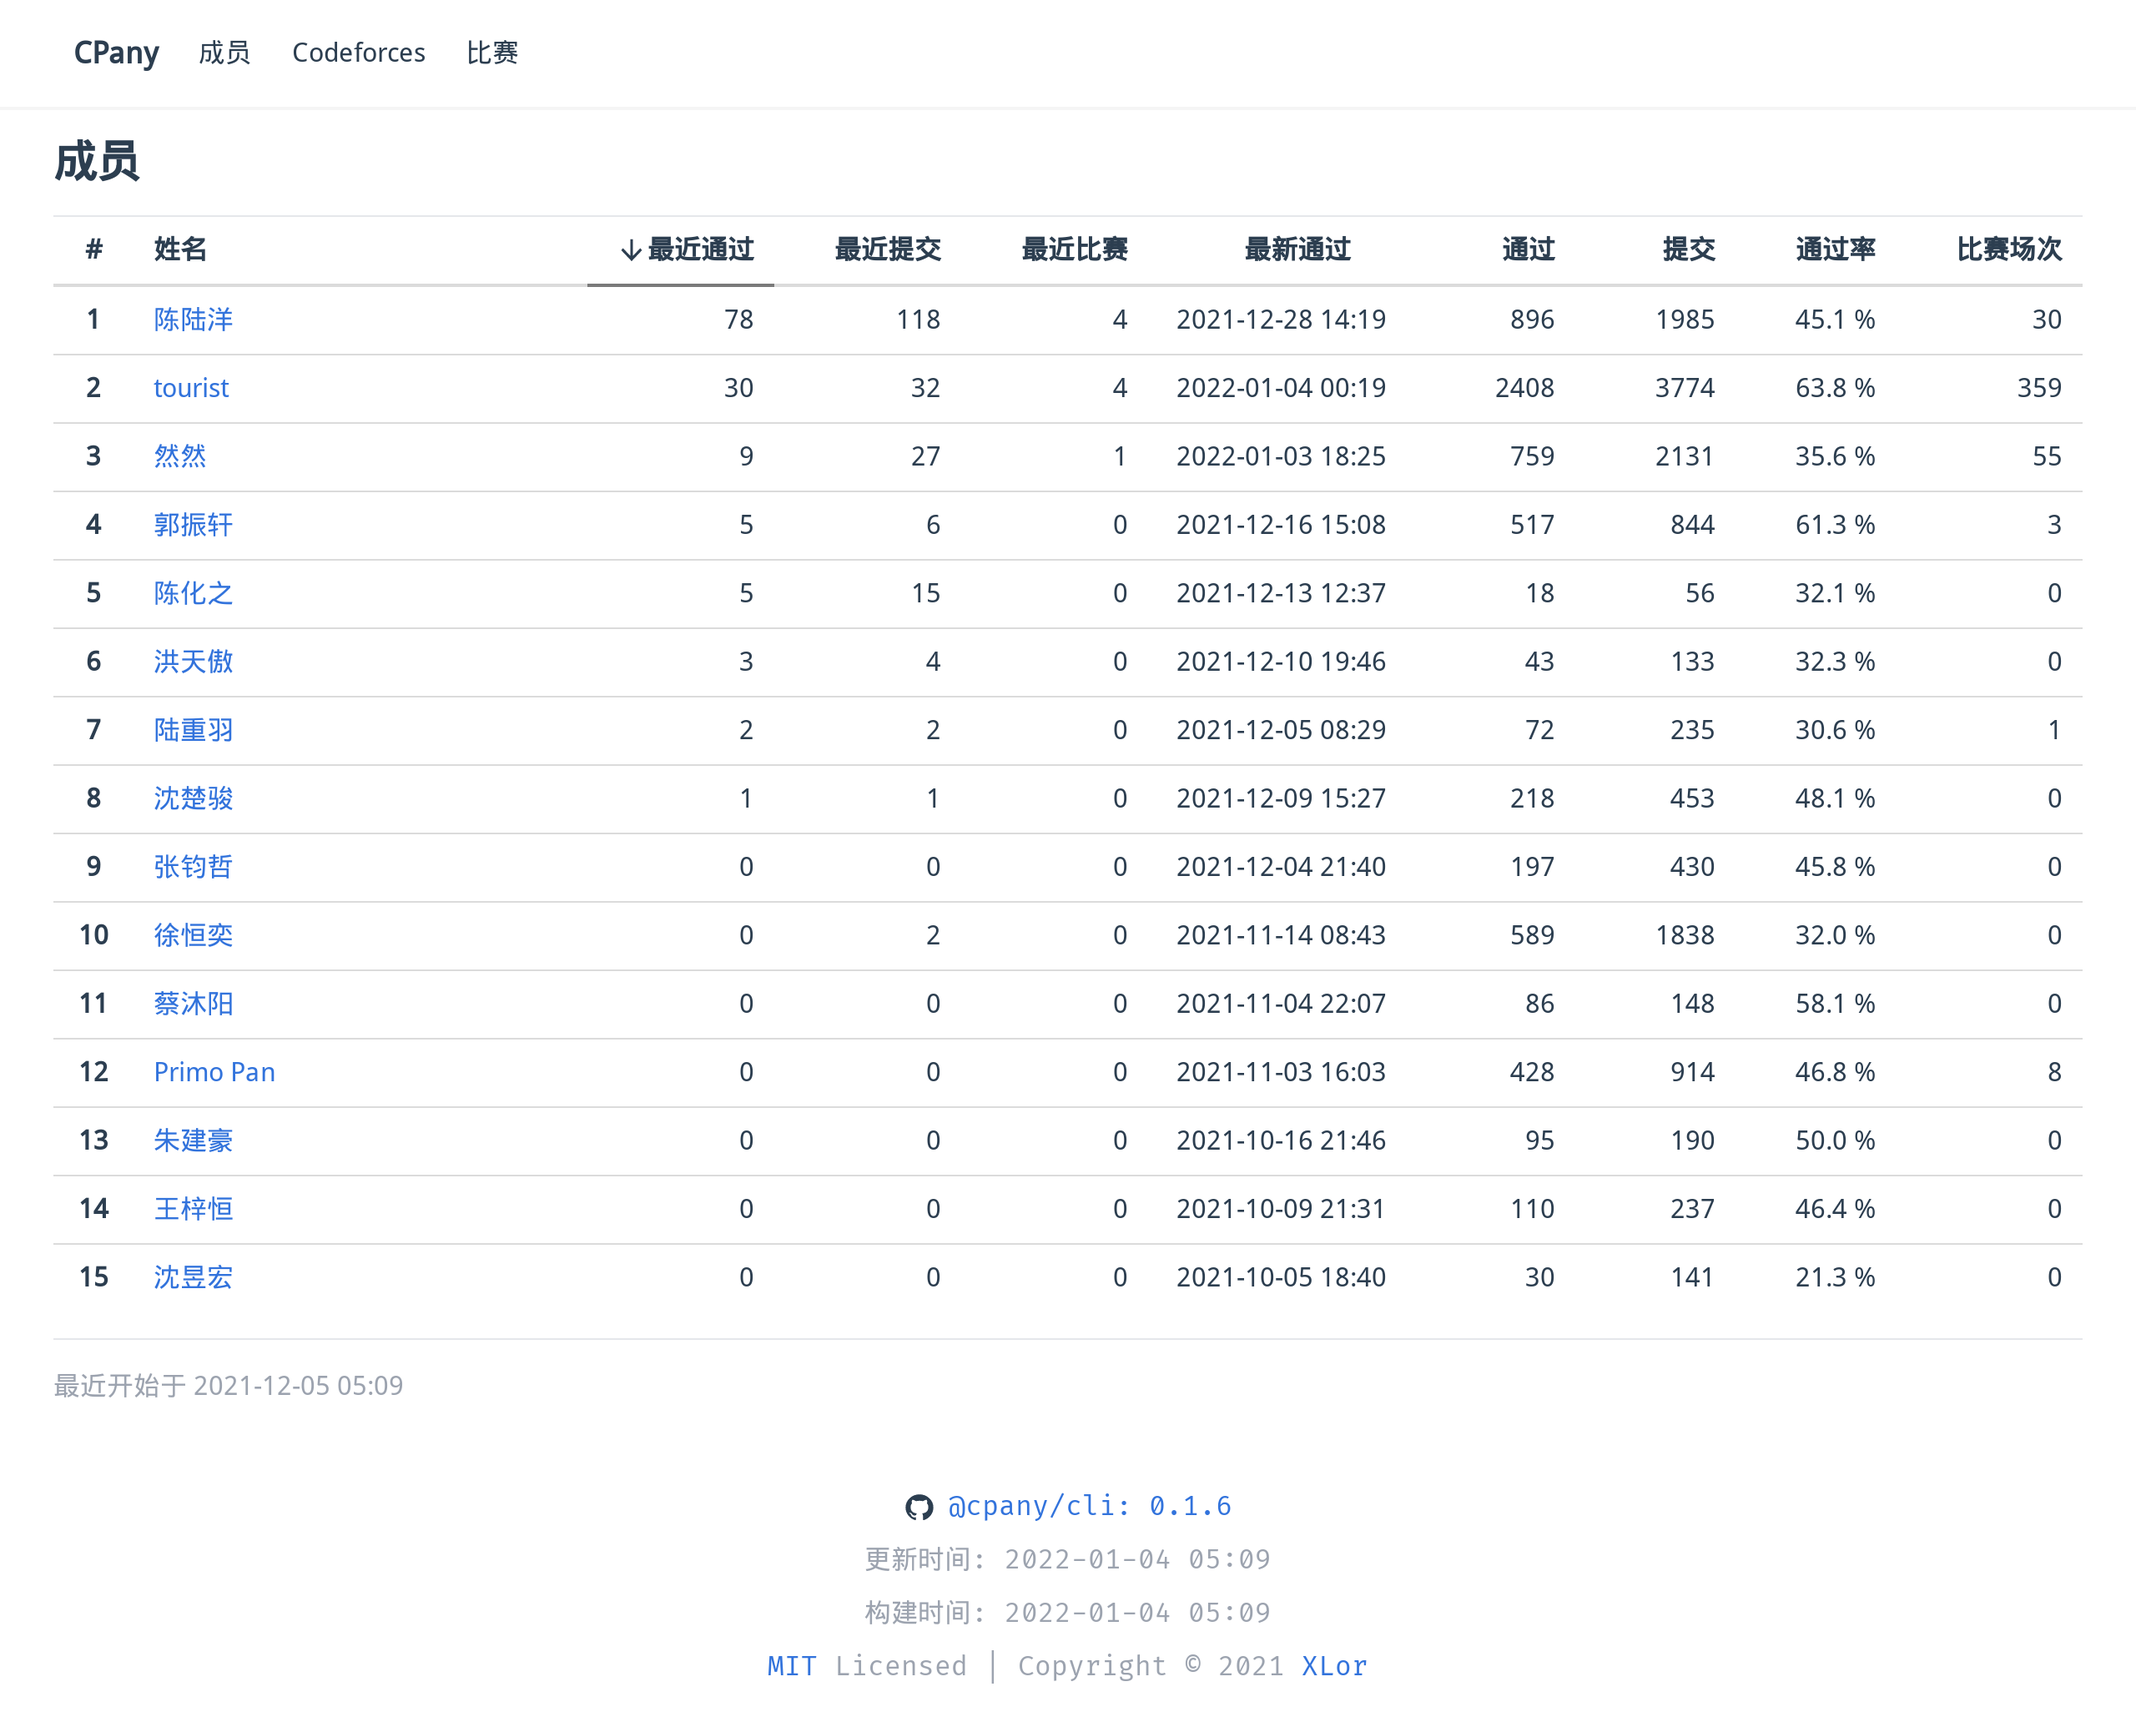
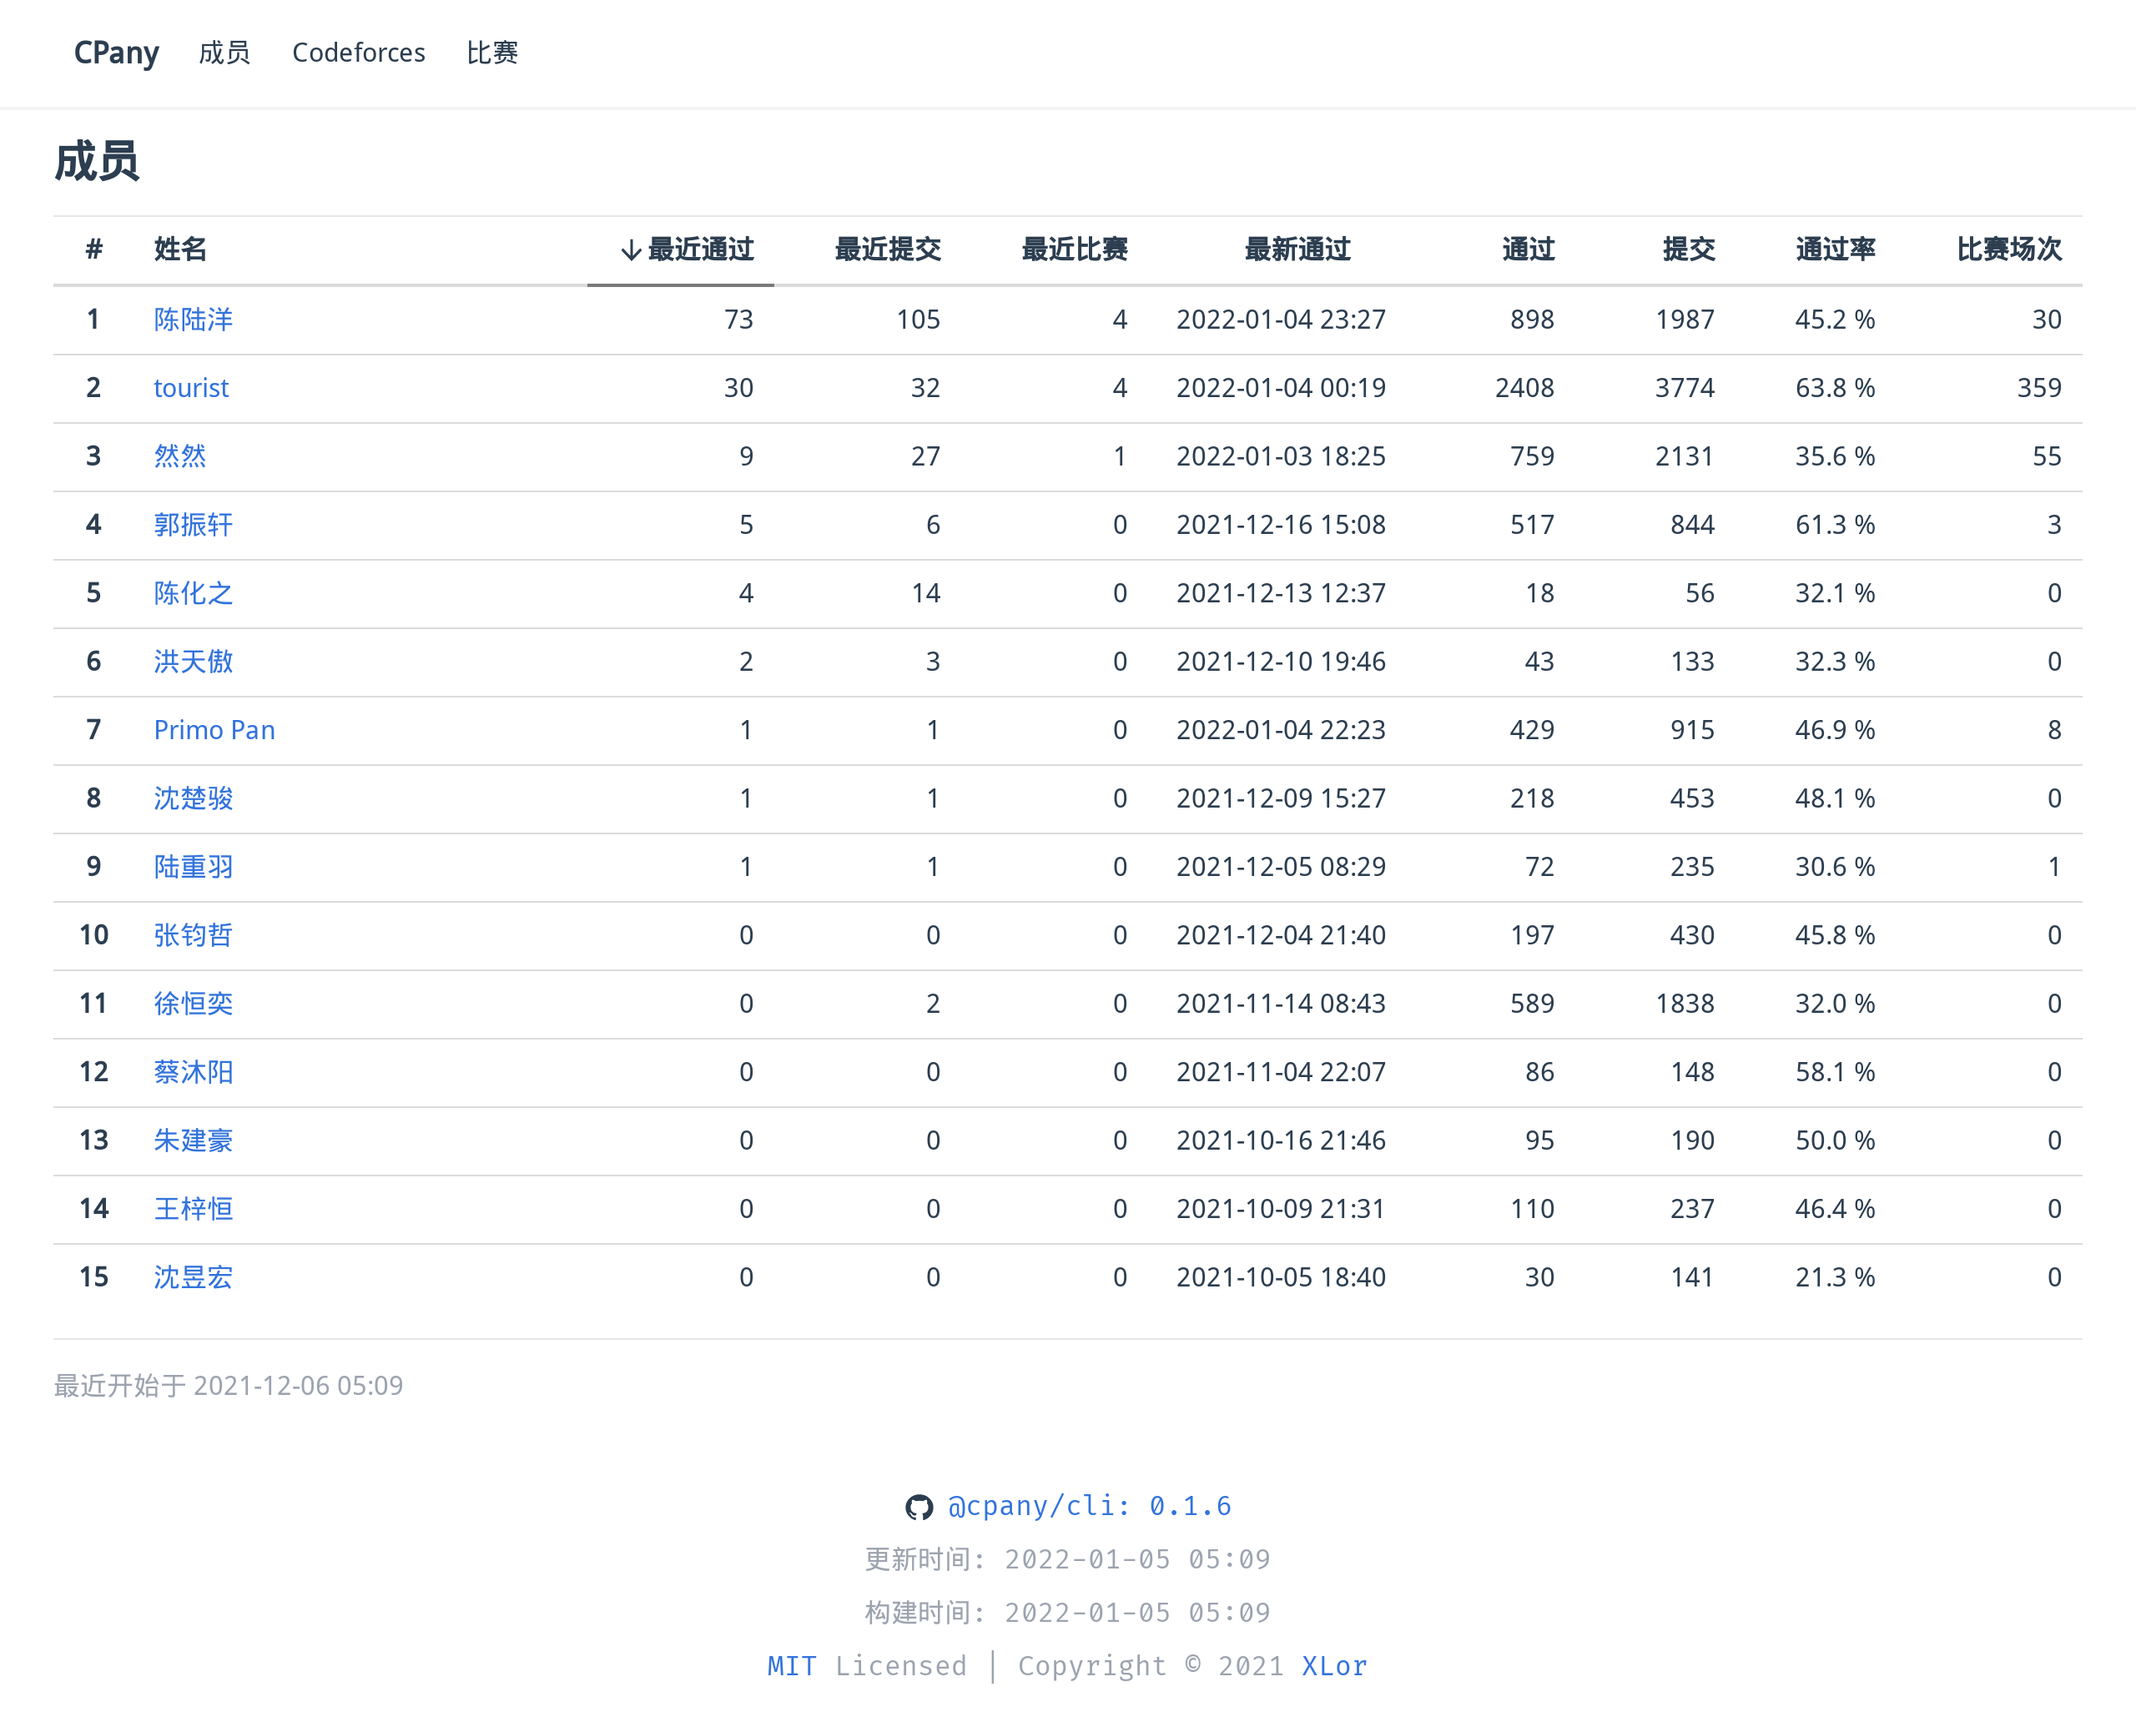
Fetch data on 2022-01-05 05:09

diff --git a/README.md b/README.md
@@ -3,7 +3,7 @@
 [![version](https://img.shields.io/npm/v/@cpany/cli?color=rgb%2850%2C203%2C86%29&label=CPany)](https://www.npmjs.com/package/@cpany/cli)
 
 <!-- START_SECTION: update_time -->
-更新时间：[2022-01-04 05:09](https://www.timeanddate.com/worldclock/fixedtime.html?msg=Fetch+data&iso=202201041641244172000050932&p1=237)
+更新时间：[2022-01-05 05:09](https://www.timeanddate.com/worldclock/fixedtime.html?msg=Fetch+data&iso=202201051641330571000050931&p1=237)
 <!-- END_SECTION: update_time -->
 
 ![members](./screenshot.png)
